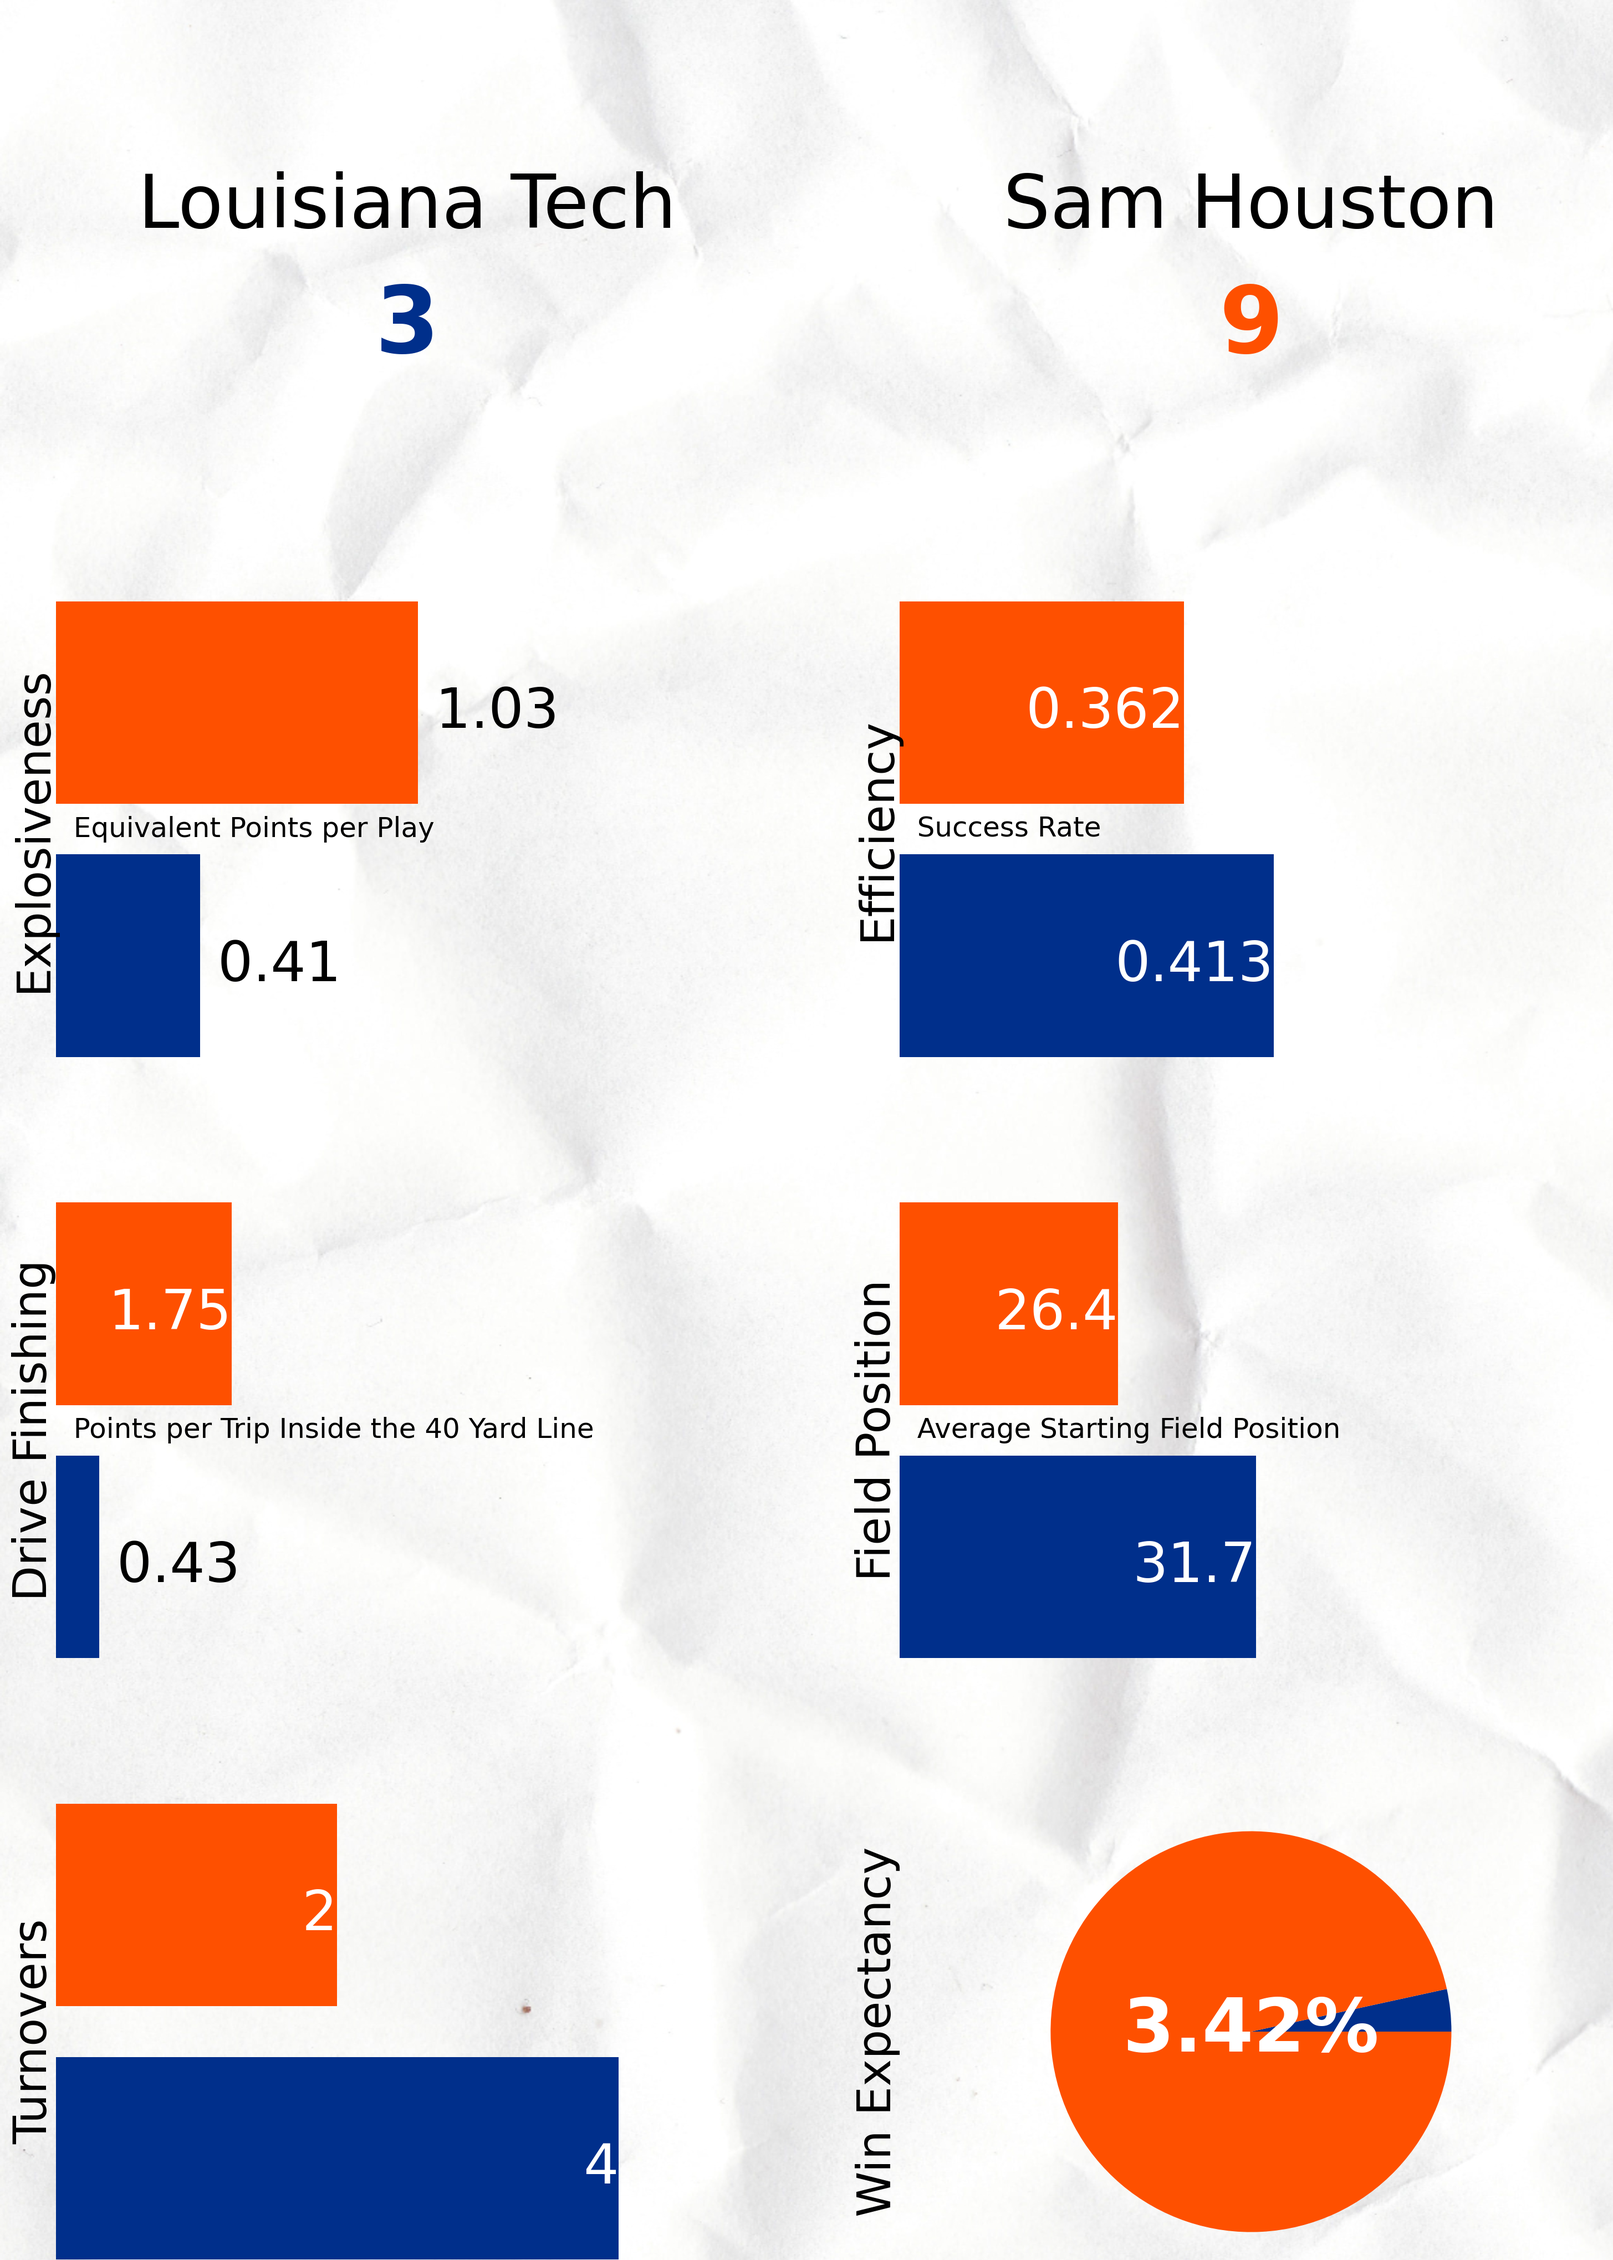
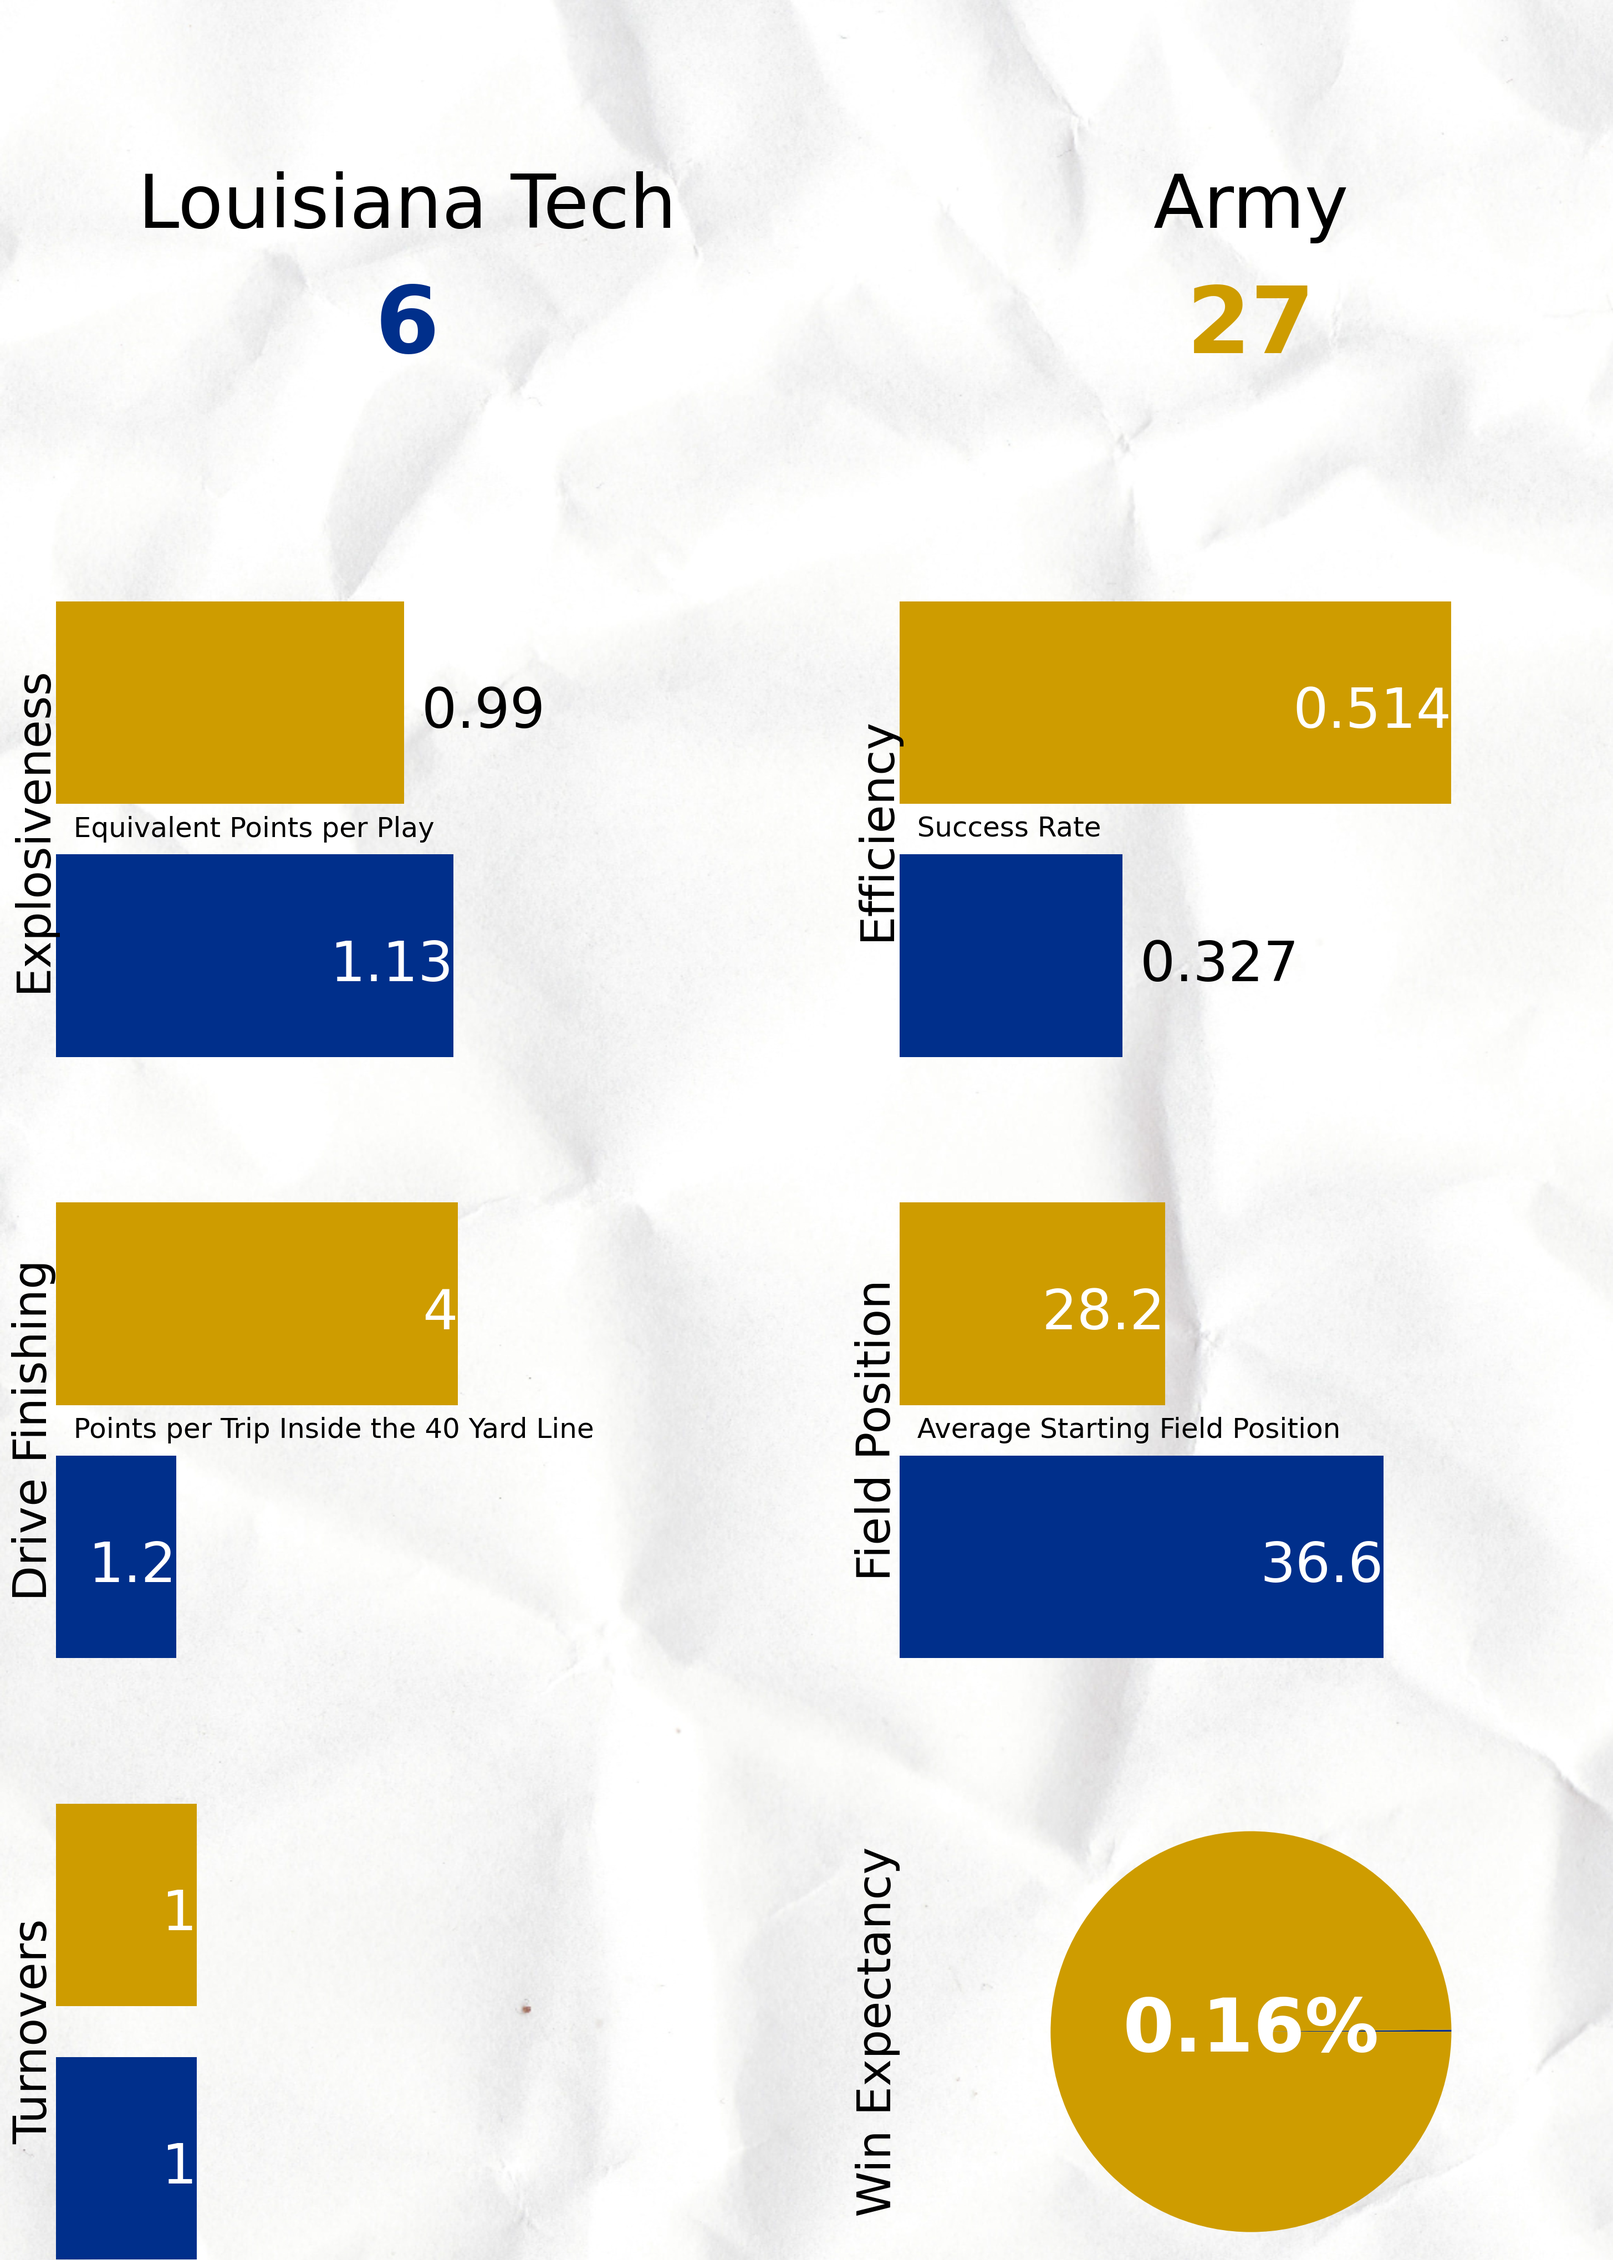
Updating support for cfbd 5.6.12 and minor changes to bsbScorecard

diff --git a/bsbScorecard.py b/bsbScorecard.py
@@ -1,19 +1,21 @@
 # -*- coding: utf-8 -*-
+####
+# Script Setup
+####
 
+## Imports
 from bs4 import BeautifulSoup as Soup
 import requests
-import numpy as np
-import pandas as pd
 from pandas import DataFrame
-import matplotlib
-import matplotlib.pyplot as plt
-import six
-import csv
-from datetime import datetime, timedelta
-from PIL import Image, ImageFont, ImageDraw, ImageColor
+from PIL import Image, ImageFont, ImageDraw
 import re
-from lib.bsbCommon import pbpLineByLine, getBoxScore
+from lib.bsbCommon import getBoxScore
 from lib.common import parseRowStringTextTrue,parseRowStringTdA
+
+## User Set Variables
+gameNum = -1
+
+
 #####
 # Get PbP Data
 ####
@@ -27,7 +29,8 @@ for li in lis:
 box_scores = list(dict.fromkeys(box_scores))
 
 ## Pull down raw data
-box_score = box_scores[-1]
+box_score = box_scores[gameNum]
+print(box_score)
 
 awayName,homeName, \
 date,startTime,elapsedTime,attendance,location,weather, \
@@ -72,8 +75,7 @@ title_font = ImageFont.truetype(font2_path, 18)
 def printScorecard(card,df,bat, runs, hits, errors, lobs, homeName, awayName, homeAway, pitcher_df):
     order = 0
     batters = []
-    p_counter_list = [0]*9
-    ## FUTURE: Replace the 9 with the number of innings
+    p_counter_list = [0]*9                  ## TODO: Replace the 9 with the number of innings
     inning_batter_counter = [0]*20
     bat_around_index = 100
     ## List plays that reach bases
@@ -88,7 +90,7 @@ def printScorecard(card,df,bat, runs, hits, errors, lobs, homeName, awayName, ho
             orderVar = batters.index(row['Name'])
             
             ## If we hit around later in the inning, need to make sure baserunning is reported in right frame
-            ## FUTURE: Right now this only cheks if the batter is the one to first bat around. This logic needs to be improved
+            ## TODO: Right now this only cheks if the batter is the one to first bat around. This logic needs to be improved
             if orderVar != bat_around_index:
                 currentInning = row['Inning']
                 
@@ -113,7 +115,7 @@ def printScorecard(card,df,bat, runs, hits, errors, lobs, homeName, awayName, ho
                 
         elif row['Play'].startswith('SB'): orderVar = batters.index(row['Name'])
         
-        ## FUTURE: Remove pitching substitutions earlier        
+        ## TODO: Remove pitching substitutions earlier        
         elif row['Play'].startswith('to'):
             print(row)
             

diff --git a/fbAdvancedBoxScore.py b/fbAdvancedBoxScore.py
@@ -11,18 +11,15 @@ import os
 from dotenv import load_dotenv
 load_dotenv()
 
+## TODO: Opponent Team ID and Game ID are still being passed manually. Need to infer Team ID from Game ID and default to most recent game.
+
 def find_win_expectancy(game_id):
     
-    configuration = cfbd.Configuration()
-    configuration.api_key['Authorization'] = os.environ["cfbdAuth"]
-    configuration.api_key_prefix['Authorization'] = 'Bearer'
-    
+    configuration = cfbd.Configuration( access_token = os.environ["cfbdAuth"] )
     api_instance = cfbd.GamesApi(cfbd.ApiClient(configuration))
 
-    adv_box = api_instance.get_advanced_box_score(game_id=game_id)
-    box = api_instance.get_team_game_stats(2024, game_id=game_id)
-    print(adv_box.teams.keys())
-    print(adv_box.teams['fieldPosition'])
+    adv_box = api_instance.get_advanced_box_score(int(game_id))
+    box = api_instance.get_game_team_stats(year=2024, id=int(game_id), team='Louisiana Tech')
 
     try: 
         if adv_box.teams.explosiveness[0].team == 'Louisiana Tech':
@@ -41,7 +38,7 @@ def find_win_expectancy(game_id):
         oppo_so = adv_box.teams.scoring_opportunities[oppo].points_per_opportunity
         oppo_eff = adv_box.teams.success_rates[oppo].overall.total
             
-        if box[0].teams[0].school == 'Louisiana Tech':
+        if box[0].teams[0].team == 'Louisiana Tech':
             tech = 0; oppo = 1
         else:
             tech = 1; oppo = 0
@@ -157,12 +154,13 @@ def find_win_expectancy(game_id):
     win_prob = 0
     api_response = api_instance.get_games(2024, team='Louisiana Tech')
     for game in api_response:
+        print(game)
         temp = game.away_points
         if temp:
             if game.home_team == 'Louisiana Tech':
-                win_prob = game.home_post_win_prob
+                win_prob = game.home_postgame_win_probability
             else:
-                win_prob = game.away_post_win_prob
+                win_prob = game.away_postgame_win_probability
 
     print("Win Probability : " + "{:.1%}".format(win_prob))
     print("Actual Score : " + str(tech_pts) + " - " + str(oppo_pts))
@@ -282,4 +280,4 @@ def fbAdvancedBoxScore(gameId, teamId):
     name, color1, color2 = getTeamInfo(teamId)
     create_graphic(name, result, win_prob, tech_list, oppo_list, tech_pts, oppo_pts, color1)
     
-fbAdvancedBoxScore('401641012', '2534')
+fbAdvancedBoxScore('401677100', '349')

diff --git a/fbScorigami.py b/fbScorigami.py
@@ -149,10 +149,7 @@ def fbScorigami(platform):
     
     df_new = df
 
-    configuration = cfbd.Configuration()
-    configuration.api_key['Authorization'] = os.environ['cfbdAuth']
-    configuration.api_key_prefix['Authorization'] = 'Bearer'
-    
+    configuration = cfbd.Configuration( access_token = os.environ["cfbdAuth"] )
     api_instance = cfbd.GamesApi(cfbd.ApiClient(configuration))
     api_response = api_instance.get_games(2024, team='Louisiana Tech')
     
@@ -178,7 +175,7 @@ def fbScorigami(platform):
                     oppoScore = awayScore
                     oppo = awayTeam
                 
-                dates.append(game.start_date[0:10])
+                dates.append(game.start_date)
                 techs.append('Louisiana Tech')
                 tech_scores.append(techScore)
                 oppos.append(oppo)

diff --git a/fbAdvancedPreview.py b/fbAdvancedPreview.py
@@ -36,7 +36,7 @@ def statLookup(statName,adv_df):
     return s_list
 
 def generateAdvancedPreview(team1,team2,t1c1,t1c2,t2c1,t2c2):
-    api_instance = cfbd.StatsApi(cfbd.ApiClient(configuration))
+    api_instance = cfbd.GamesApi(cfbd.ApiClient(configuration))
     api = api_instance.get_advanced_team_season_stats(year=2022)
     dicts = []
     for api_team in api:
@@ -113,9 +113,7 @@ t2c2='#B6862C'
 
 load_dotenv()
 
-configuration = cfbd.Configuration()
-configuration.api_key['Authorization'] = os.environ["cfbdAuth"]
-configuration.api_key_prefix['Authorization'] = 'Bearer'
+configuration = cfbd.Configuration( access_token = os.environ["cfbdAuth"] )
 generateAdvancedPreview(team1,team2,t1c1,t1c2,t2c1,t2c2)
 
 

diff --git a/fbPlaychart.py b/fbPlaychart.py
@@ -5,6 +5,8 @@ Created on Wed Nov  2 18:06:08 2022
 @author: ntrup
 """
 
+## TODO: This still needs a lot of work
+
 
 import cfbd
 import pandas as pd
@@ -19,9 +21,7 @@ import json
 
 def getPBPData():
     ## CFBD Configuration
-    configuration = cfbd.Configuration()
-    configuration.api_key['Authorization'] = os.environ["cfbdAuth"]
-    configuration.api_key_prefix['Authorization'] = 'Bearer'
+    configuration = cfbd.Configuration( access_token = os.environ["cfbdAuth"] )
     api_instance = cfbd.PlaysApi(cfbd.ApiClient(configuration))
 
     ## Get the particular game we are interested in
